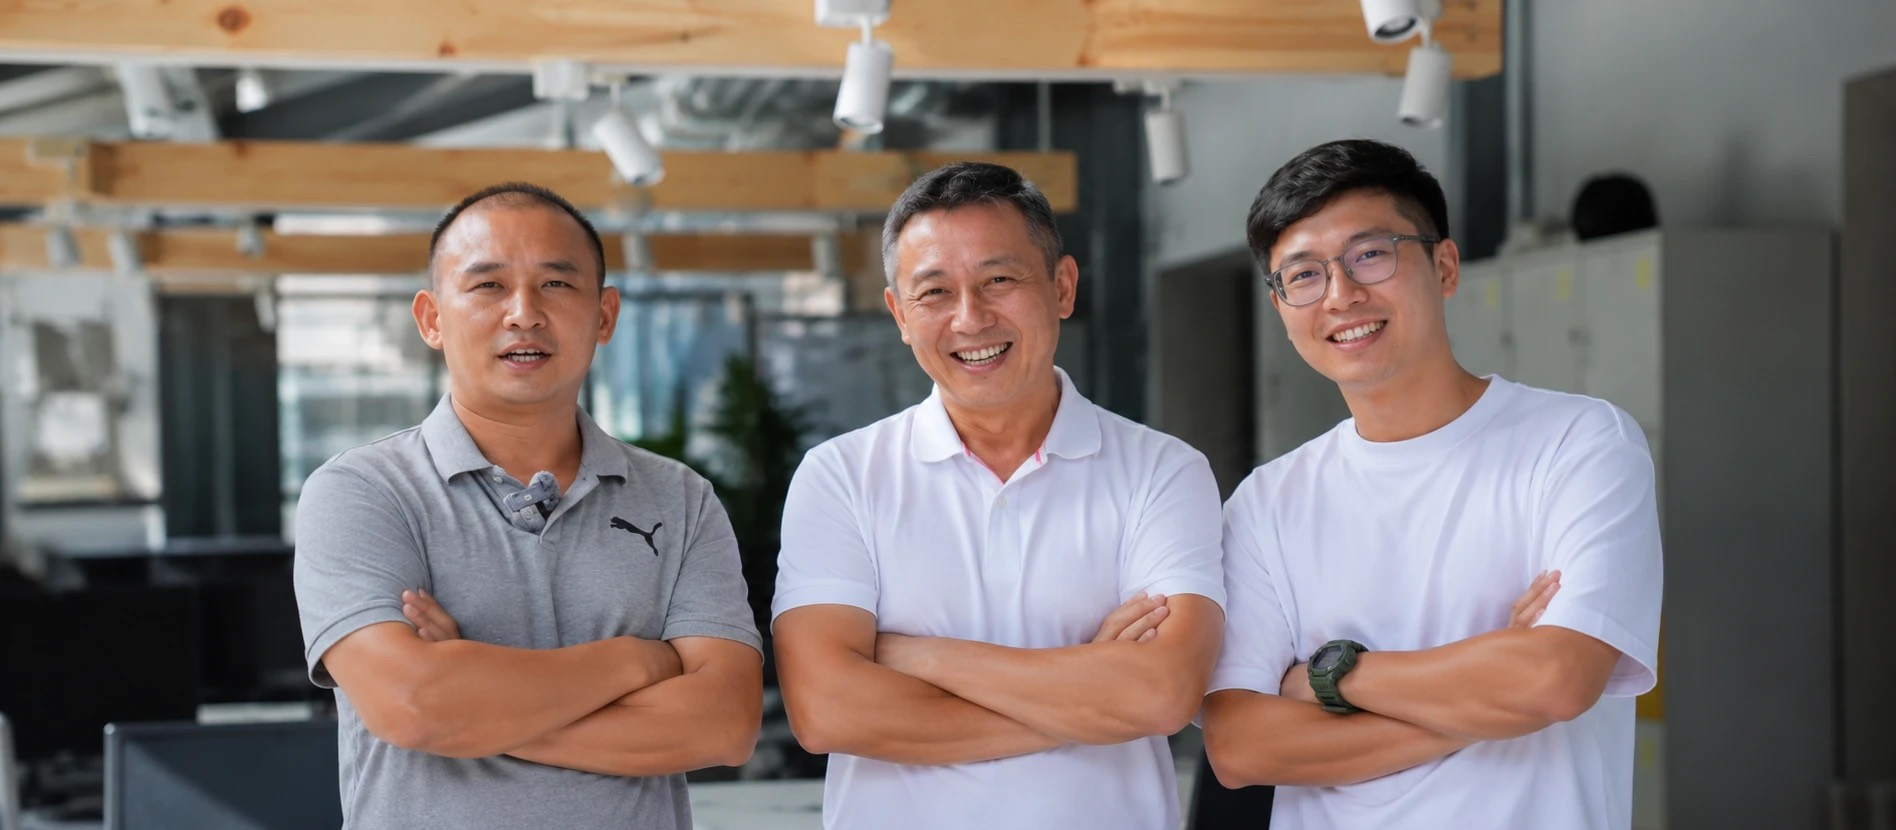
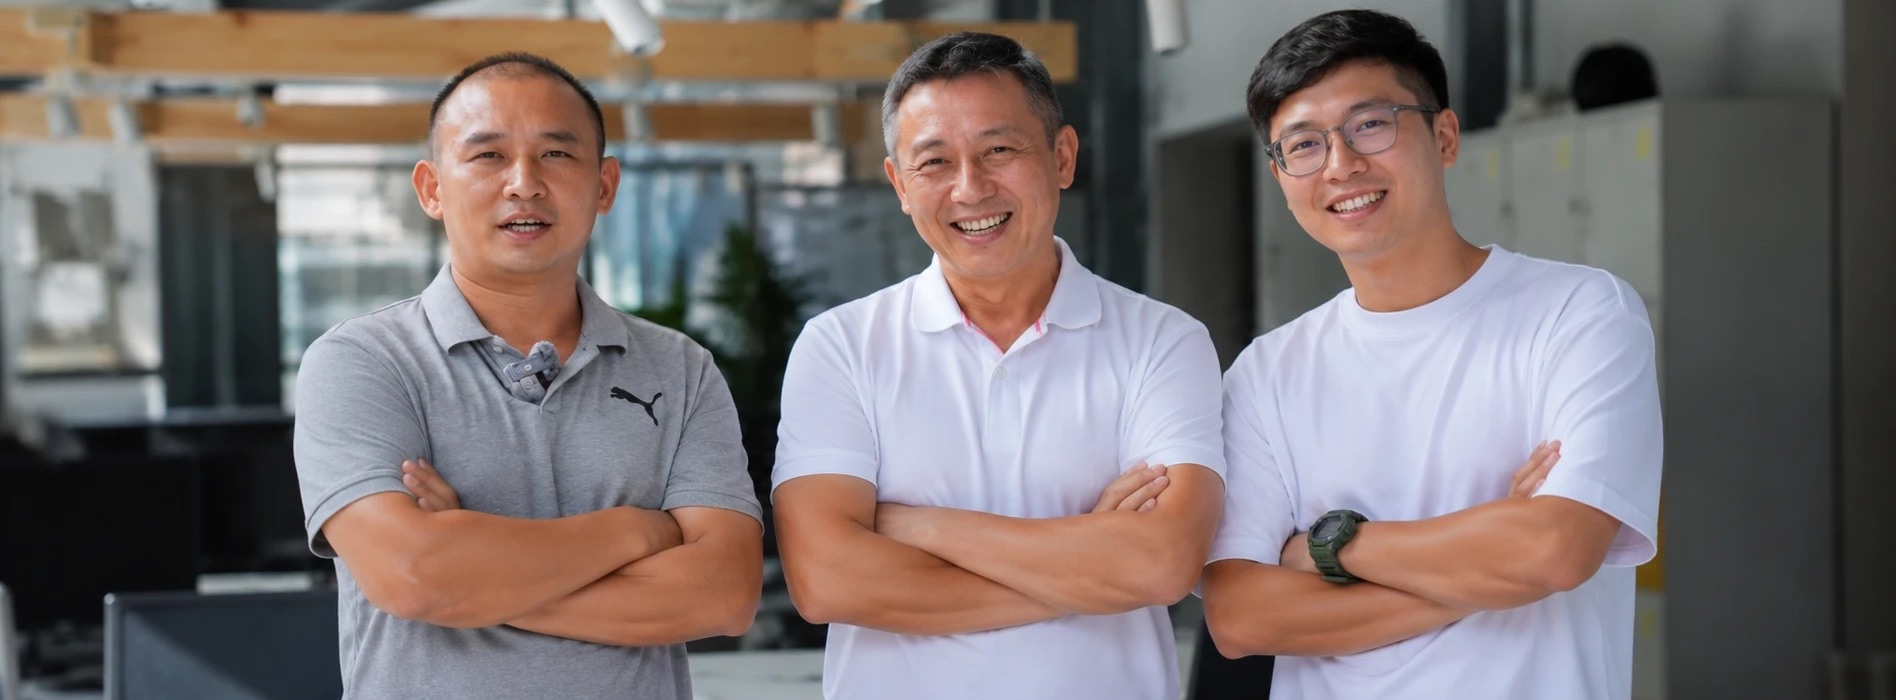
Keep the hero title clear of the faces at every viewport
The title covered the faces on large screens while reading fine at 1440x900.
Raising the hero alone could not fix it: the photo scales with the hero, so
the faces moved down by the same amount.

- Crop 130px off the top of team-hero.jpg (ceiling and lighting rigs). This
  lifts the chins from ~43% of the frame to ~33% without cutting heads, which
  is what actually creates the clearance.
- Hero 72vh -> 78vh, and the copy block moves down (padding-bottom 4rem ->
  3.5rem).
- The fade becomes a fixed 80px instead of 9% of the hero. As a percentage it
  grew with the viewport and began swallowing the paragraph on tall screens.

Title now clears the faces by 157px at 1440x900, 250px at 1920x1080, 281px at
2000x1139 and 192px at 375x812; previously 0-26px, and negative on large
screens.

diff --git a/css/styles.css b/css/styles.css
@@ -733,7 +733,7 @@ ul { list-style: none; }
    intro copy as one block, sitting below the faces in the hero photo. */
 .page-hero {
     position: relative;
-    min-height: 72vh;
+    min-height: 78vh;
     display: flex;
     align-items: flex-end;
     overflow: hidden;
@@ -753,7 +753,9 @@ ul { list-style: none; }
     inset: auto 0 -1px 0;
     /* above the photo and its tint, below .page-hero-inner (z-index 2) */
     z-index: 1;
-    height: 9%;
+    /* Fixed, not a percentage: as a share of the hero it grew with the
+       viewport and started swallowing the copy on tall screens. */
+    height: 80px;
     pointer-events: none;
     background: linear-gradient(180deg,
         var(--hero-fade-0) 0%,
@@ -786,7 +788,7 @@ ul { list-style: none; }
     position: relative;
     z-index: 2;
     padding-top: 7rem;
-    padding-bottom: 4rem;
+    padding-bottom: 3.5rem;
     text-align: center;
 }
 .page-hero-title {
